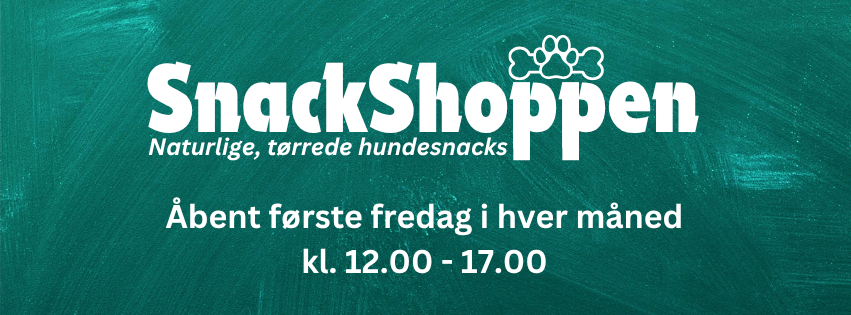
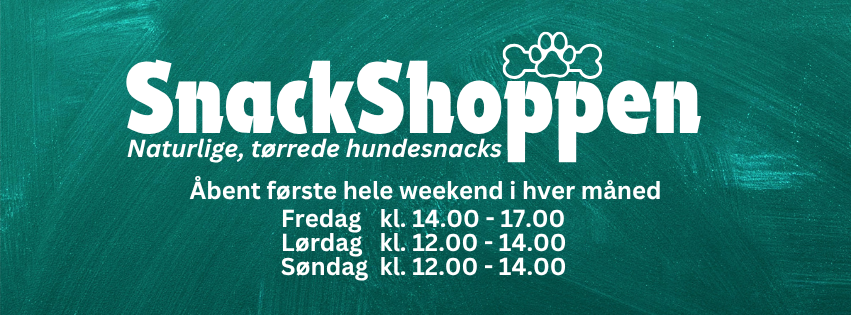
snackshop ny åbningstider

Changed region(s): [[0.1222, 0.0857, 0.8249, 0.5143], [0.1833, 0.5714, 0.8249, 0.8857]]

diff --git a/src/pages/Snackshop.js b/src/pages/Snackshop.js
@@ -37,6 +37,7 @@ const Snackshop = () => (
           />
           <br />
           <TitleCenter text="Snackshoppen kan besøges på adressen Horsensvej 31, Nim, 8740 Brædstrup" />
+          <TitleCenter text="OBS! Ikke åbnet i august grundet ferie" />
           <Text>
             Snackshoppen er en lille, intim gårdbutik i udkanten af Nim, med et stort udvalg af
             naturlige, tørrede snacks og godbidder til din bedste ven.
@@ -55,8 +56,7 @@ const Snackshop = () => (
           </Text>
           <Text bold>Du kan betale med kontant, mobilepay eller dankort i butikken.</Text>
 
-          <TitleCenter text="Snackshoppens næste åbningsdag er: Fredag den 31. juli 2026 fra kl. 12.00 - 17.00" />
-          <TitleCenter text="OBS! Ikke åbnet i august grundet ferie" />
+          <TitleCenter text="Snackshoppens næste åbningsdag er: weekenden 4, 5, 6. september" />
         </Column>
       </Row>
 
